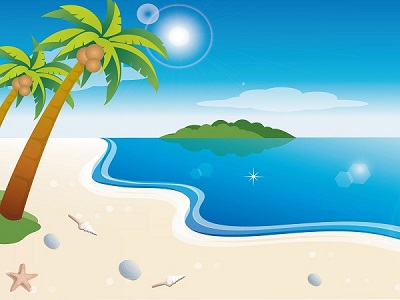
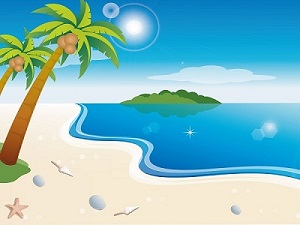
Everything scaled

diff --git a/index.js b/index.js
@@ -45,6 +45,8 @@ function showAnswer(){
         event.preventDefault();
         const answerId = $('input[name=choice]:checked', '#quiz').attr('id');
         const correctAnswer = answerCheck(answerId);
+        const explanation = getExplanation();
+        const answerToQuiz = getAnswerToQuiz();
         $('.questions').css('display', 'none')
         if(correctAnswer === true){
            // alert("correct");
@@ -54,13 +56,24 @@ function showAnswer(){
             $('.result').html('Incorrect').css('color', 'red');
         }
         $('quiz-picture').html(`<img src="images/Q1_answers.jpg" alt="Q1_answer">`);
-        $('#answer-to-quiz').html(`${STORE.questions[STORE.currentQuestion-1].options[STORE.questions[STORE.currentQuestion-1].answer]}`);
-        $('.explanation').html(`${STORE.questions[STORE.currentQuestion-1].explanation}`);
+        $('#answer-to-quiz').html(`${answerToQuiz}`);
+        $('.explanation').html(`${explanation}`);
         checkIfResetIsNeeded(5);
+        adjustAnswerSize(explanation, answerToQuiz);
         $('.answer').css('display', 'block');
     }); 
 
 }
+//Function grabs the answer
+function getExplanation(){
+    return STORE.questions[STORE.currentQuestion-1].explanation;
+}
+
+//Function grabs the answer
+function getAnswerToQuiz(){
+    return STORE.questions[STORE.currentQuestion-1].options[STORE.questions[STORE.currentQuestion-1].answer];
+};
+
 
 //This function checks the answer and return true or false
 function answerCheck(item){
@@ -121,10 +134,10 @@ function checkIfResetIsNeeded(num){
     else{$('.reset').css('display', 'block');}
 }
 
-//This function adjust the font size
+//This function adjust the font size of questions
 function adjustQuestionSize(question, options){
    //alert(parseInt($('.question').css('font-size'), 10));
-   currentAnswerSize = parseInt($('.question').css('font-size'), 10);
+   currentQuestionSize = parseInt($('.question').css('font-size'), 10);
    currentOptionSize = parseInt($('.choice').css('font-size'), 10);
    const NumberOfStrings = options.map(function(string){ return string.length });
    const sumOfStringNumbers = NumberOfStrings.reduce(function(a, b){ return a + b });
@@ -134,30 +147,70 @@ function adjustQuestionSize(question, options){
     $('.choice').css('font-size',`${currentOptionSize-5}px`);
     $('.choice-4').css('margin-bottom',`px`);
         if(question.length >= 40 && question.length <  60){
-            $('.question').css('font-size',`${currentAnswerSize-3}px`);
+            $('.question').css('font-size',`${currentQuestionSize-3}px`);
         }
         else if(question.length >= 150){
-            $('.question').css('font-size',`${currentAnswerSize-20}px`);
+            $('.question').css('font-size',`${currentQuestionSize-20}px`);
         }
    }
    else if(averageNumberOfStrings >= 50){
     $('.choice').css({'font-size':`${currentOptionSize-20}px`, 'margin-top':`3px`});
     $('.choice-4').css('margin-bottom',`5px`);
         if(question.length >= 40 && question.length <  60){
-            $('.question').css('font-size',`${currentAnswerSize-3}px`);
+            $('.question').css('font-size',`${currentQuestionSize-3}px`);
         }
         else if(question.length >= 150){
-            $('.question').css('font-size',`${currentAnswerSize-20}px`);
+            $('.question').css('font-size',`${currentQuestionSize-20}px`);
         }
    }
  
-   alert(`${question.length} : ${averageNumberOfStrings}`);
+   //alert(`${question.length} : ${averageNumberOfStrings}`);
+}
+
+//This function adjust the font size of answers
+function adjustAnswerSize(explanation, answer){
+   currentAnswerSize = parseInt($('.answer-to-quiz-p').css('font-size'), 10);
+   currentExplanationSize = parseInt($('.explanation').css('font-size'), 10);
+  // alert(`${explanation.length} | ${answer.length}`);
+   
+   if(explanation.length > 120 && explanation.length < 150){
+    $('.explanation').css('font-size',`${currentExplanationSize-1}px`);
+        if(answer.length >= 10 && answer.length < 15){
+            $('.answer-to-quiz-p').css('font-size',`${currentAnswerSize-2}px`);
+        }
+        else if(answer.length >= 15){
+            $('.answer-to-quiz-p').css('font-size',`${currentAnswerSize-8}px`);
+        }
+   }
+   else if(explanation.length >= 150 && explanation.length < 200){
+    $('.explanation').css('font-size',`${currentExplanationSize- 3}px`);
+    
+        if(answer.length >= 10 && answer.length < 15){
+            $('.answer-to-quiz-p').css('font-size',`${currentAnswerSize-5}px`);
+        }
+        else if(answer.length >= 15){
+            $('.answer-to-quiz-p').css('font-size',`${currentAnswerSize-10}px`);
+        }
+   }
+   else if(explanation.length > 200){
+    $('.explanation').css('font-size',`${currentExplanationSize- 10}px`);
+    
+        if(answer.length >= 10 && answer.length < 15){
+            $('.answer-to-quiz-p').css('font-size',`${currentAnswerSize-5}px`);
+        }
+        else if(answer.length >= 15){
+            $('.answer-to-quiz-p').css('font-size',`${currentAnswerSize-11}px`);
+        }
+   }
+
 }
 
 function resetFontSizeAndMargin(){
     $('.question').css('font-size',`45px`);
     $('.choice').css('font-size',`40px`);
     $('.choice-4').css('margin-bottom',`15px`);
+    $('.explanation').css('font-size',`30px`);
+    $('.answer-to-quiz-p').css('font-size',`40px`);
 }
 
 function runTheQuiz(){

diff --git a/style.css b/style.css
@@ -7,6 +7,7 @@ body{
 
 .quiz-text{
     font-family: 'Amatic SC', cursive;
+    color: black;
 }
 
 /*For the header design*/
@@ -25,7 +26,7 @@ header{
     margin-bottom: 0;
 }
 
-img.top-picture{
+.top-picture{
     display: inline-block;
     width: 300px;
     height: 200px; 
@@ -36,10 +37,11 @@ img.top-picture{
 .quiz-container{
     text-align: center;
     display: block;
-    border: 1px solid black;
+    border: 1px solid palegoldenrod;
     margin: 20px auto;
     padding-left: 3px;
     border-radius: 25px;
+    background: url(images/quizcontainer.png);
     width: 80%;
     height: 600px;
 }
@@ -51,15 +53,17 @@ img.top-picture{
     margin-right: auto;
     margin-left: auto;
     margin-bottom: 25px;
-    margin-top: 50px;
-    border: 1px solid black;
+    margin-top: 20px;
+    border: none;
     width: 75%;
     height: 300px;
 }
 
 .start-text{
-    font-size: 30px;
+    font-size: 40px;
     margin-bottom: 3px;
+    margin-right: 2px auto;
+    margin-left: 2px auto;
 }
 
 /*Question section*/
@@ -142,6 +146,7 @@ img.top-picture{
 .answer-text-top{
     font-size: 35px;
     margin-bottom: 0;
+    margin-top: 25px;
 }
 .quiz-picture{
     display: block;
@@ -163,13 +168,17 @@ img.top-picture{
     margin-right: 2%;
     margin-left: 2%;
     margin-top: 0;
+    margin-bottom: 10px;
     font-size: 30px;
 }
 
 #next{
     display: block;
-    margin: 10px auto;
-    height: 23px;
+    margin-right: auto;
+    margin-left: auto;
+    margin-top: 5px;
+    margin-bottom: 15px;
+    height: 35px;
     width: 100px;
     background-color: greenyellow;
     border: none;
@@ -196,11 +205,30 @@ img.top-picture{
     border-radius: 25px;
     margin-right: auto;
     margin-left: auto;
-    margin-top: 40px;
-    margin-bottom: 40px;
-    border: 1px solid black;
+    margin-top: 10px;
+    margin-bottom: 20px;
+    border: 1 none;
     width: 75%;
     height: 350px;
+}
+
+#retry{
+    display: block;
+    margin-right: auto;
+    margin-left: auto;
+    margin-bottom: 15px;
+    height: 35px;
+    width: 100px;
+    border: none;
+    border-radius: 25px;
+    font-weight: bold;
+    background-image: radial-gradient(circle, red, yellow, green);
+}
+
+.end-text{
+    font-size: 33px;
+    margin: 0;
+    margin-top: 15px;
 }
 
 /*Additional pics*/

diff --git a/index.html b/index.html
@@ -25,7 +25,7 @@
        
             <!-- This is the startig screen. Remove this once the user clicks on "Start the Quiz" -->
             <section class="quiz-start">
-                <p class="quiz-text start-text">This quiz is to test your knowledge about Hawaii</p>
+                <p class="quiz-text start-text">Aloha!! Take this quiz to test knowledge on the topics of Hawaii</p>
                 <button type="button" id="start">Start the Quiz</button>
                 <img class="picture-start" src="images/Start-pic.jpg" alt="start-pic"/>
             </section>
@@ -67,9 +67,9 @@
 
             <!--Display this when the quiz ends-->
             <section class="quiz-end">
-                <p>Congratulations!! You finished the quiz</p>
-                <p>You overall score is <span class="score"></span></p>
-                <dev class="picture-end"></dev>
+                <p class="end-text quiz-text">Congratulations!!<br>You finished the quiz. 
+                <br>You overall score is <span class="score"></span></p>
+                <img class="picture-end" src="images/End-pic.jpg" alt="End-pic"/>
                  <!--Restart button-->
                 <button type="click" id="retry">Try Again</button>
             </section>
